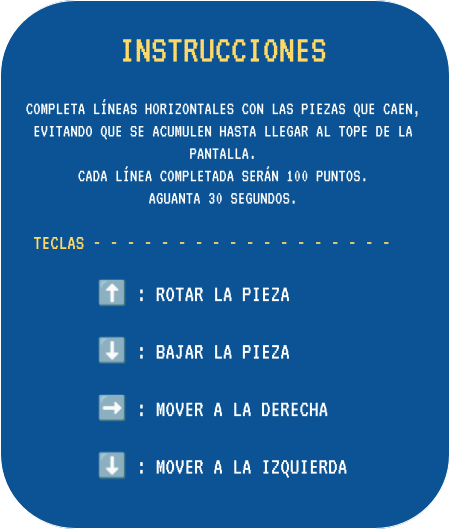
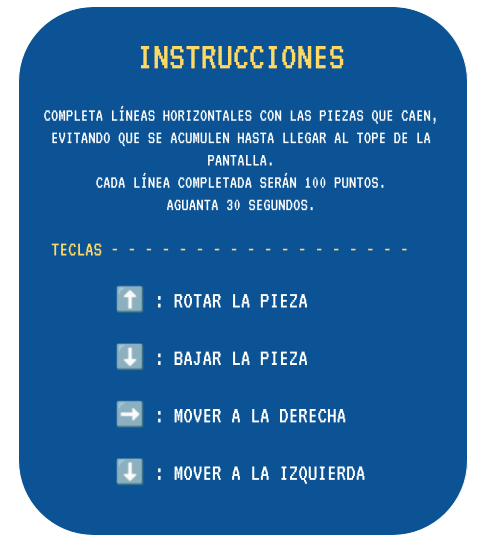
Instrucciones tetris update

diff --git a/Arcade/arcades_room.py b/Arcade/arcades_room.py
@@ -50,7 +50,7 @@ background_image = pygame.transform.scale(pygame.image.load('Arcade/assets/arcad
 
 instructions_piles = pygame.transform.scale(resource_manager.pile_instructions.get(), (700, 762))
 instructions_cuca = pygame.transform.scale(resource_manager.cuca_instructions.get(), (700, 775))
-instructions_tetris = pygame.transform.scale(resource_manager.tetris_instructions.get(), (700, 774))
+instructions_tetris = pygame.transform.scale(resource_manager.tetris_instructions.get(), (700, 784))
 
 arcades_positions = [
     (100, 150), 
@@ -297,7 +297,7 @@ def show_popup(arcade_number):
                 window.blit(instructions_piles, ((WINDOW_WIDTH - instructions_piles.get_width())//2, (WINDOW_HEIGHT - instructions_piles.get_height())//2 - 35))
             elif arcade_number == 2:
                 #TETRIS
-                window.blit(instructions_tetris, ((WINDOW_WIDTH - instructions_tetris.get_width())//2, (WINDOW_HEIGHT - instructions_tetris.get_height())//2 - 48))    
+                window.blit(instructions_tetris, ((WINDOW_WIDTH - instructions_tetris.get_width())//2, (WINDOW_HEIGHT - instructions_tetris.get_height())//2 - 10))    
 
             pygame.display.flip() 
             pygame.time.Clock().tick(60)      
